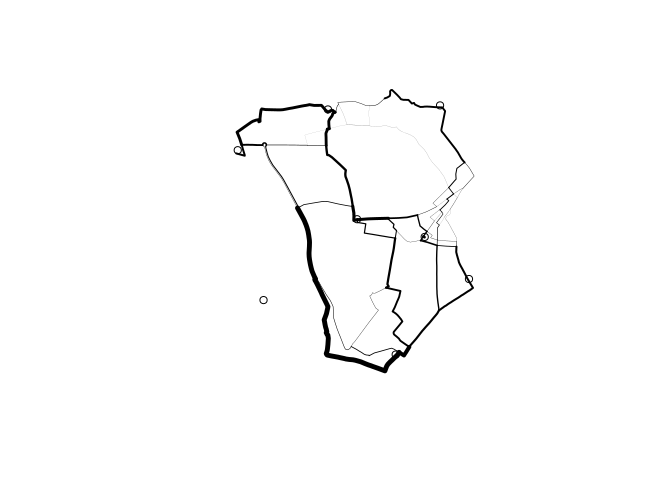
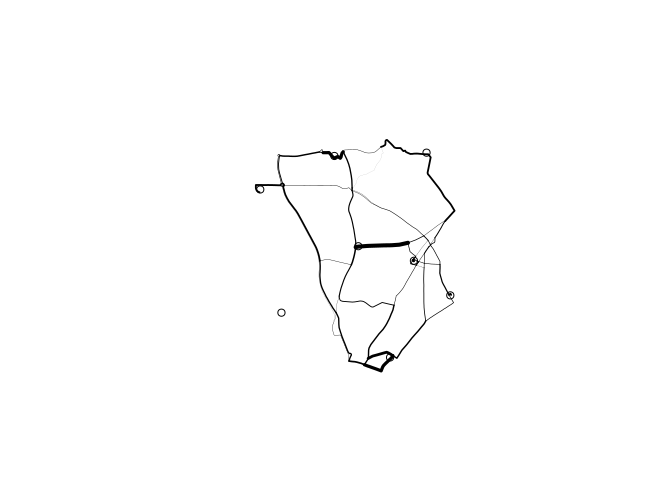
Update README
- use reproducible route_osrm() - does not need an API key

Changed region(s): [[0.3438, 0.2188, 0.7188, 0.7812], [0.5625, 0.1875, 0.625, 0.2188], [0.5625, 0.2812, 0.5938, 0.3125]]

diff --git a/README.md b/README.md
@@ -49,36 +49,23 @@ plot(travel_network, lwd = w)
 
 ![](vignettes/README-plot1-1.png)
 
-The package can also allocate flows to the road network, for example through a link to the [CycleStreets.net API](https://www.cyclestreets.net/api/).
+The package can also allocate flows to the road network, e.g. with [CycleStreets.net](https://www.cyclestreets.net/api/) and the OpenStreetMap Routing Machine ([OSRM](https://github.com/Project-OSRM/osrm-backend)) API interfaces. These are supported in `route_*()` functions such as `route_cyclestreets` and `route_osrm()`:
 
 Route functions take lat/lon inputs:
 
 ``` r
 trip <-
-  route_cyclestreet(from = c(-1, 53), to = c(-1.1, 53), plan = "balanced")
+  route_osrm(from = c(-1, 53), to = c(-1.1, 53))
 ```
 
 and place names, found using the Google Map API:
 
-``` r
-if(!Sys.getenv("CYCLESTREET") == ""){
-  trip <- route_cyclestreet("Bradford, UK", "Leeds, Yorkshire", plan = "balanced")
-  plot(trip)
-}
-```
-
-![](vignettes/README-cycle-trip-1.png)
-
-We can replicate this call to CycleStreets.net multiple times using `line2route`.
+We can replicate this call multiple times using `line2route`.
 
 ``` r
 intrazone <- travel_network$Area.of.residence == travel_network$Area.of.workplace
 travel_network <- travel_network[!intrazone,]
-if(Sys.getenv("CYCLESTREET") == ""){
-  t_routes = routes_fast
-} else {
-  t_routes <- line2route(travel_network)
-}
+t_routes <- line2route(travel_network, route_fun = route_osrm)
 plot(t_routes)
 ```
 
